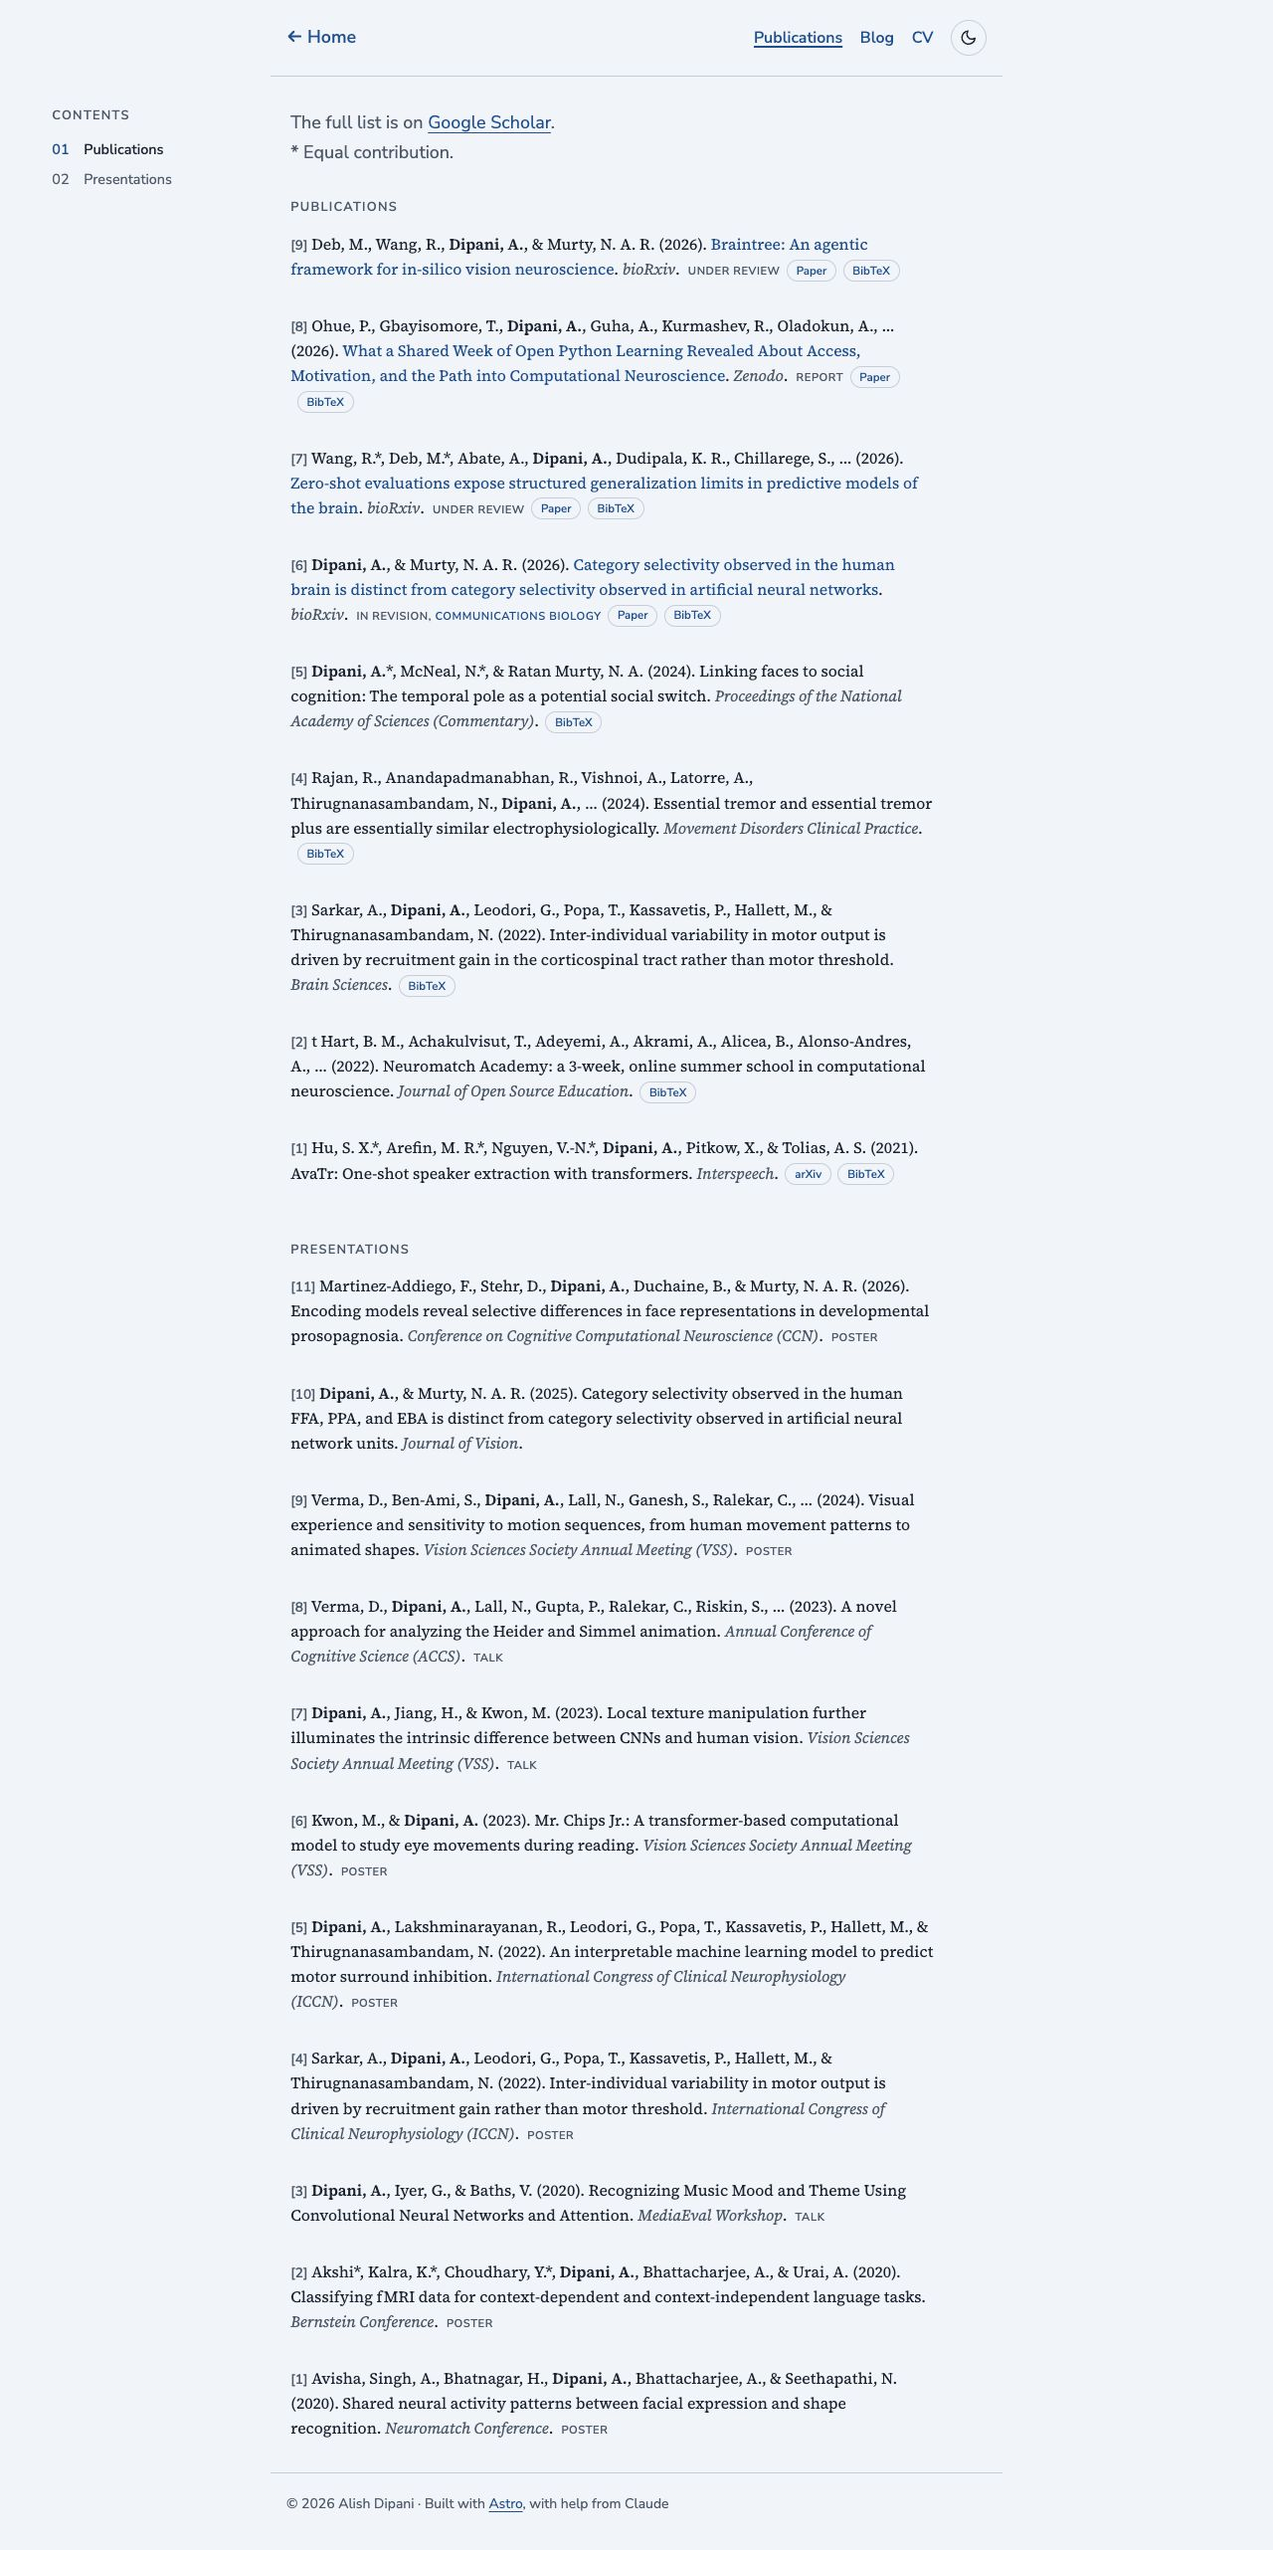
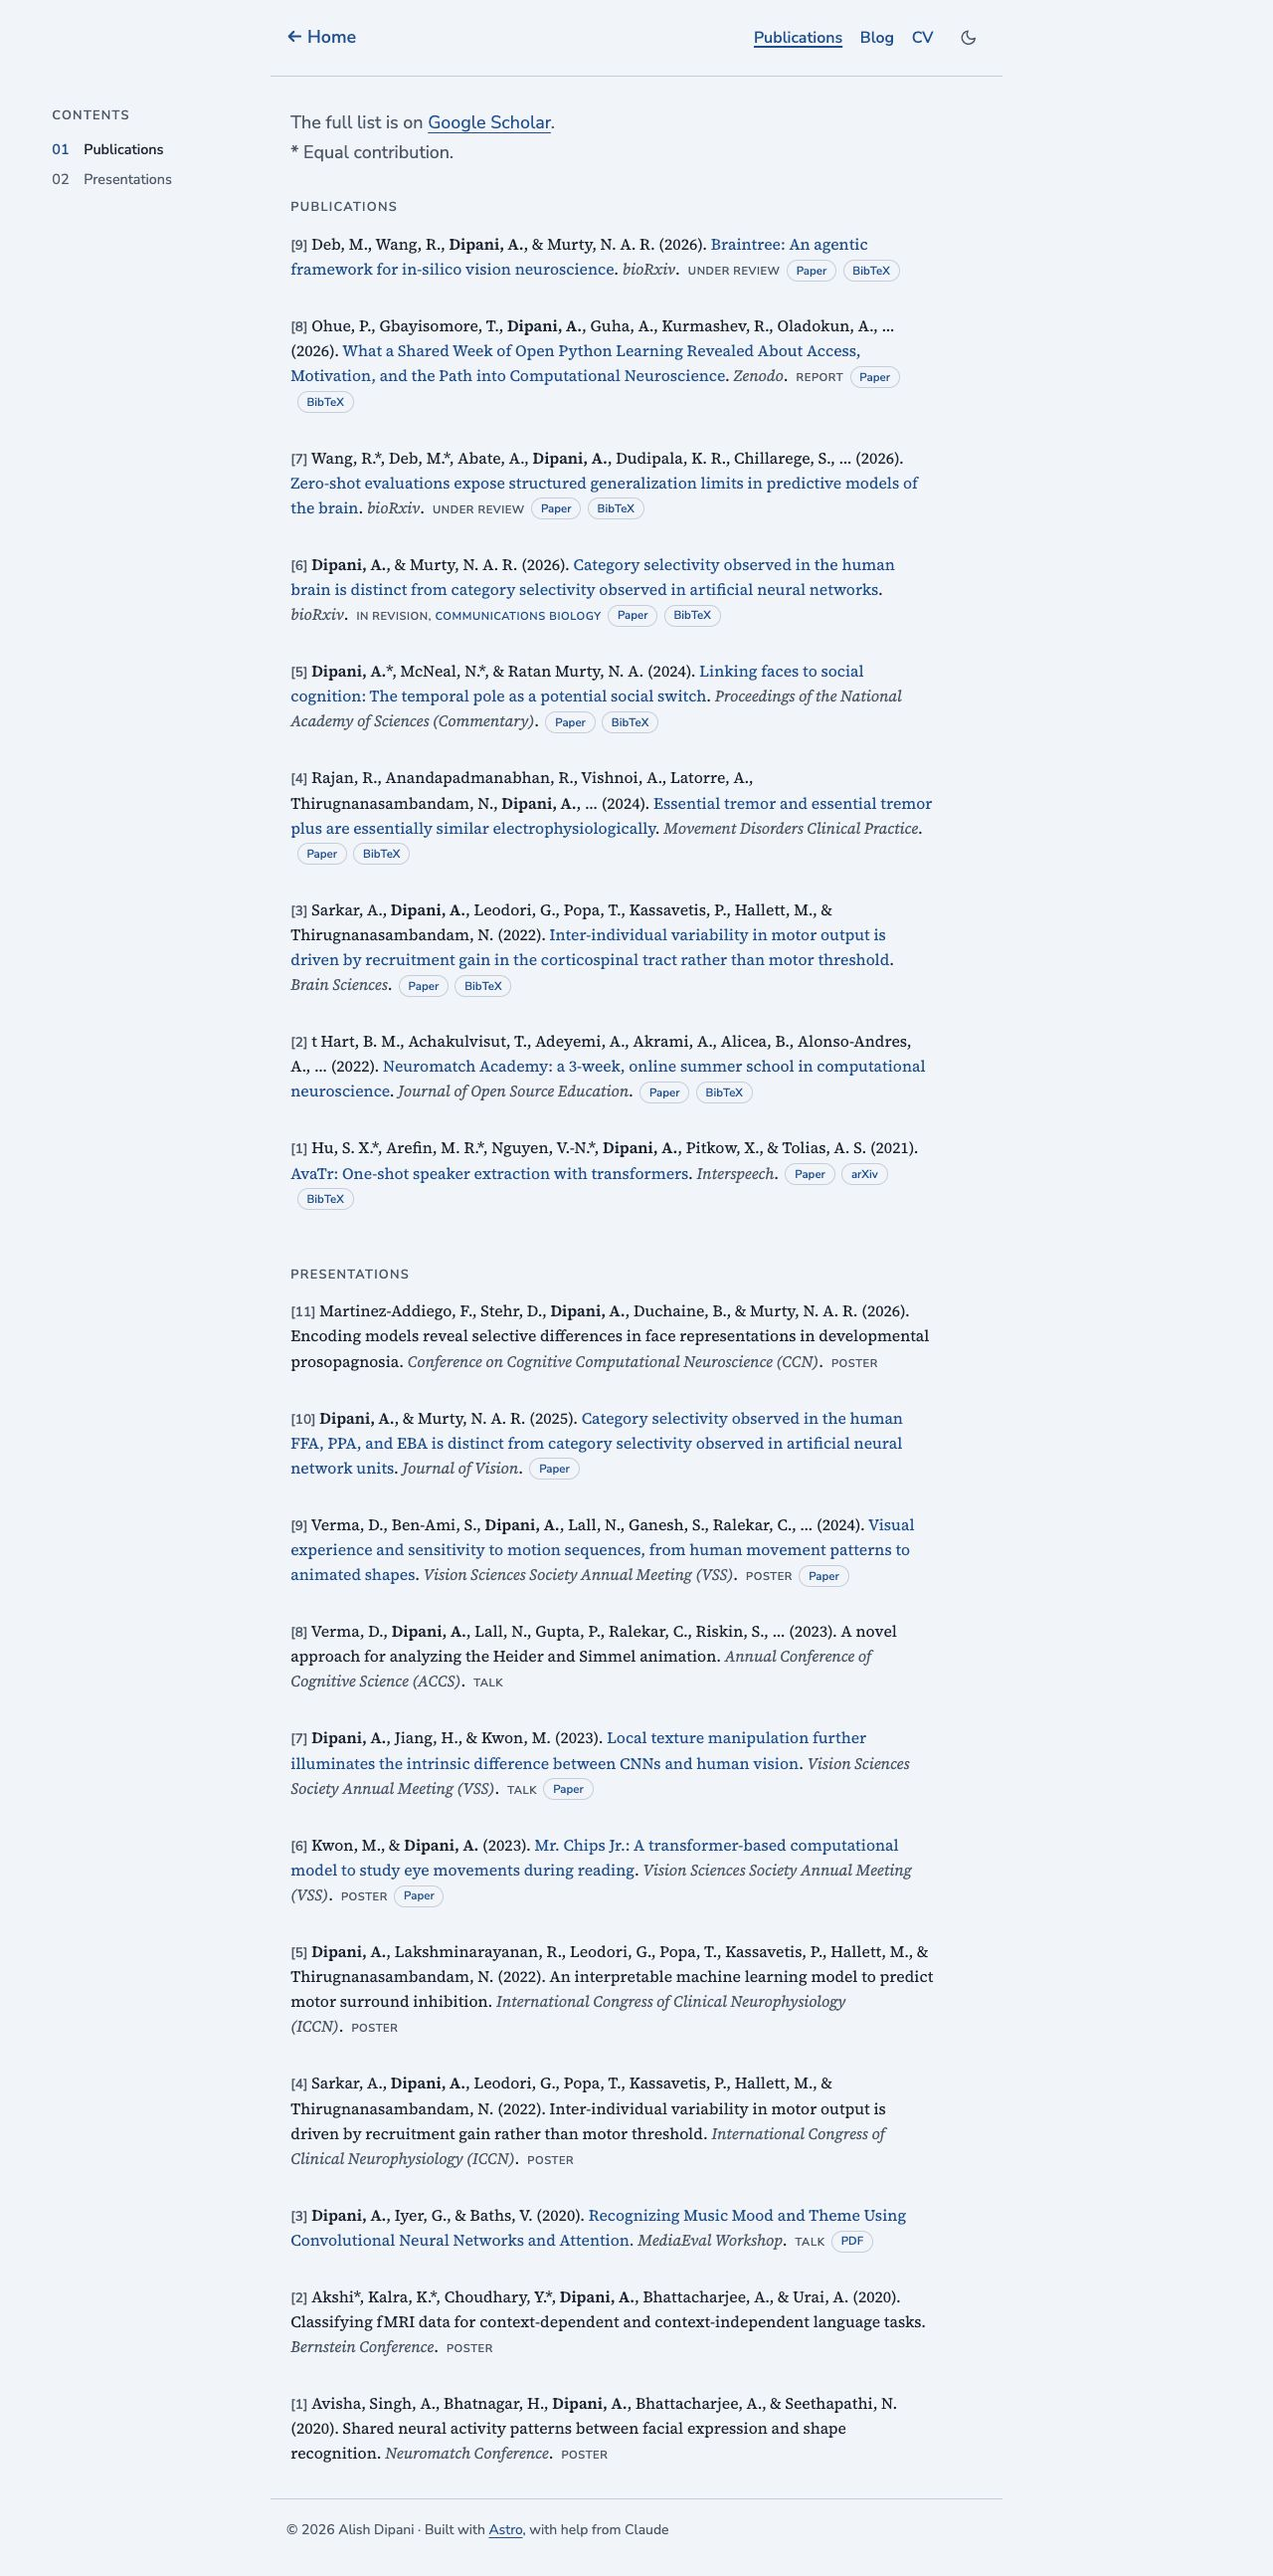
Publications: add verified links to every entry that has one
- DOIs for PNAS, Movement Disorders Clin Pract, Brain Sciences, JOSE; ISCA page for AvaTr;
  Journal of Vision pages for the VSS abstracts (VSS 2024 via its JoV record, the VSS site
  link is gone); CEUR PDF for MediaEval. Each checked against its title (Crossref or page).
- Title links to the URL, else the DOI, else the PDF or arXiv link
- check-links: follow only real <meta refresh> redirects (BibTeX text matched before)

diff --git a/src/lib/publications.ts b/src/lib/publications.ts
@@ -40,7 +40,7 @@ export type Publication = {
   statusUrl?: string;         // links the part of the status after its first comma
   year: string;
   summary?: string;
-  url?: string;               // title link and "Paper" chip: url field, else the DOI
+  url?: string;               // title link: url field, else the DOI, else the PDF or arXiv link
   links: { label: string; href: string }[];
   bibtex: string;             // the entry as BibTeX, without the site-only fields
 };
@@ -104,7 +104,7 @@ export function getPublications(file = 'src/data/publications.bib'): Publication
         statusUrl: join(f.statusurl) || undefined,
         year: join(f.year),
         summary: join(f.summary) || undefined,
-        url: url || undefined,
+        url: url || join(f.pdf) || arxiv || undefined,
         links,
         bibtex: cleanBibtex(e.input ?? ''),
       };

diff --git a/TODO.md b/TODO.md
@@ -10,8 +10,8 @@ instead of showing placeholders, so nothing here is visible on the site until it
 - **News items:** date, text, optional link; Home shows the latest 5 and hides the section while empty.
   → `src/data/news.yml`
 - **NGC post intro:** the text before "The NGCs so far". → `src/content/blog/ngc.mdx`
-- **Publication summaries and links:** `summary`, `url`/`doi`, `pdf`, `arxiv`, `code`, `poster`/`slides` per entry.
-  The 4 new 2026 publications have DOIs and AvaTr has its arXiv link; the other 15 entries have none yet.
+- **Publication summaries:** one line per publication (`summary`), optional. All entries that have a
+  link online now have one (Task 7); the others stay without links by Alish's choice.
   → `src/data/publications.bib` (fields documented at its top)
 - **Current CV PDF:** add the file and point the CV links at it (still the Aug 2024 Google Drive PDF).
   → `public/` + `cvPdf` in `src/pages/index.astro` and `src/pages/cv.astro`
